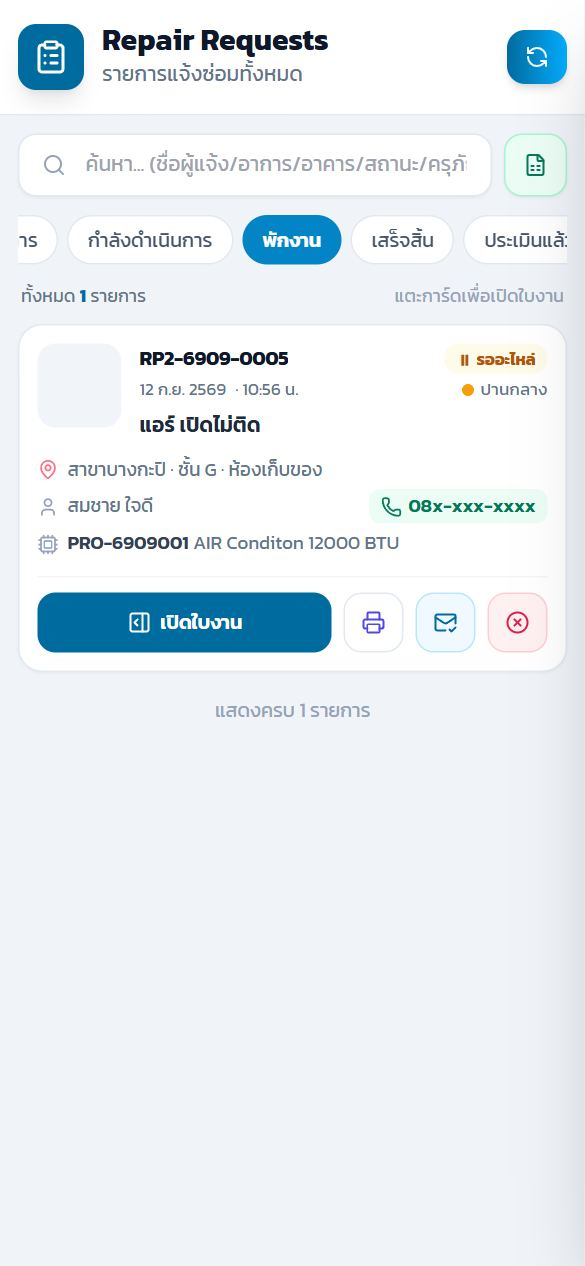
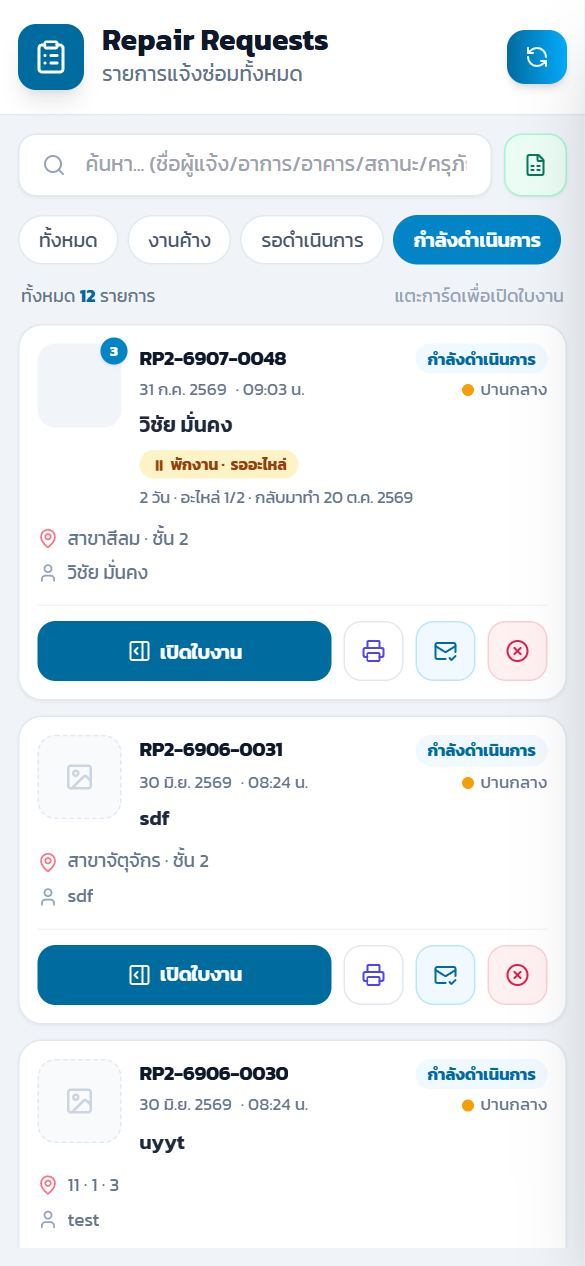
ปรับ excel ของพักงาน / ติดตามงาน

diff --git a/maintenance_info.php b/maintenance_info.php
@@ -486,9 +486,6 @@ $ag_id = (int)($sess_user_agency_es ?? 0); // ✅ กันว่างแล้
 				  return true;
 				})
 				.sort((a, b) => statusOrder.indexOf(a) - statusOrder.indexOf(b));
-			  // พักงาน = งานกำลังดำเนินการที่พักอยู่ (กรองฝั่ง server)
-			  const ip = normalized.indexOf('inprogress');
-			  normalized.splice(ip >= 0 ? ip + 1 : normalized.length, 0, 'onhold');
 
 			  params.success(normalized);
 			})
@@ -580,8 +577,6 @@ $ag_id = (int)($sess_user_agency_es ?? 0); // ✅ กันว่างแล้
     const STATUS_META = {
       pending:    { th:'รอดำเนินการ',   pct:10,  bg:'bg-amber-50',  text:'text-amber-700',  bar:'bg-amber-500' },
       inprogress: { th:'กำลังดำเนินการ', pct:50,  bg:'bg-sky-50',    text:'text-sky-700',    bar:'bg-sky-500' },
-      // พักงาน: ไม่ใช่ค่าในคอลัมน์ status จริง (ยังเป็น inprogress) — ใช้กับตัวกรอง และป้ายเมื่อแถวมี row.hold
-      onhold:     { th:'พักงาน',         pct:50,  bg:'bg-amber-50',  text:'text-amber-700',  bar:'bg-amber-500' },
       completed:  { th:'เสร็จสิ้น',      pct:100, bg:'bg-emerald-50', text:'text-emerald-700', bar:'bg-emerald-500' },
 	  feedback:   { th:'ประเมินแล้ว',   pct:100, bg:'bg-emerald-50', text:'text-emerald-700', bar:'bg-emerald-500'},
       cancel:     { th:'ยกเลิก',        pct:0,   bg:'bg-rose-50',    text:'text-rose-700',    bar:'bg-rose-500' },
@@ -608,13 +603,17 @@ $ag_id = (int)($sess_user_agency_es ?? 0); // ✅ กันว่างแล้
       return `<span class="${over ? 'text-rose-600 font-bold' : 'text-slate-500'}">${escapeHtml(bits.join(' · '))}</span>`;
     };
 
+    // แท็กพักงาน: สถานะยังเป็น "กำลังดำเนินการ" แล้วมีแท็กสีส้มต่อท้าย (ไม่ใช่สถานะใหม่)
+    const holdTag = (h) => `<span class="inline-flex items-center gap-1 max-w-full rounded-full bg-amber-100 text-amber-800 px-2 py-0.5 text-[10.5px] font-bold" title="${escapeHtml(h.label)}">
+        ⏸ พักงาน · <span class="truncate">${escapeHtml(h.label)}</span></span>`;
+
     const statusRenderer = (p) => {
       if (p.data?.hold && normalizeStatus(p.value) === 'inprogress') {
-        const h = p.data.hold;
+        const h = p.data.hold, meta = STATUS_META.inprogress;
         return `
-        <div class="flex flex-col w-full min-w-[140px] px-1 py-1.5 leading-tight">
-          <span class="text-[12px] font-bold tracking-tight text-amber-700">⏸ พักงาน</span>
-          <span class="text-[10.5px] font-semibold text-amber-700 truncate" title="${escapeHtml(h.label)}">${escapeHtml(h.label)}</span>
+        <div class="flex flex-col w-full min-w-[140px] px-1 py-1.5 leading-tight gap-1">
+          <span class="text-[12px] font-bold tracking-tight ${meta.text}">${escapeHtml(meta.th)}</span>
+          <span class="flex">${holdTag(h)}</span>
           <span class="text-[10.5px] truncate">${holdSubText(h)}</span>
         </div>`;
       }
@@ -802,6 +801,17 @@ const excelExportColumns = [
     field: 'ex_status',
     hide: true,
     valueGetter: p => statusText[p.data?.status] || p.data?.status || ''
+  },
+  // 2.1) พักงาน (แท็กของงานกำลังดำเนินการ) — เหตุผล + วันที่คาดว่ากลับมาทำ / ว่าง = ไม่ได้พัก
+  {
+    headerName: 'พักงาน',
+    field: 'ex_hold',
+    hide: true,
+    valueGetter: p => {
+      const h = p.data?.hold;
+      if (!h || String(p.data?.status || '').toLowerCase() !== 'inprogress') return '';
+      return h.label + (h.eta ? ` (กลับมาทำ ${formatThaiDate(h.eta)})` : '');
+    }
   },
 
   // 3) ความเร่งด่วน
@@ -1152,6 +1162,14 @@ async function exportToExcelFull() {
 
     sheet.columns = cols;
 
+    // รูปยึดกับช่องของแถว (twoCell) — กรองแถวใน Excel แล้วรูปของแถวที่ถูกซ่อนจะหายไปด้วย ไม่ลอยทับแถวอื่น
+    //  ช่องรูปกว้าง ~145px × สูง 160px => กรอบรูปประมาณ 100×100px
+    const imgAnchor = (colIndex, excelRowIndex) => ({
+      tl: { col: colIndex + 0.15, row: excelRowIndex - 1 + 0.15 },
+      br: { col: colIndex + 0.85, row: excelRowIndex - 1 + 0.75 },
+      editAs: 'twoCell'
+    });
+
     // ✅ จุดสำคัญ: ดึงข้อมูลทั้งหมดตาม filter/search/sort จาก API
     const rows = await fetchAllFilteredRowsForExport();
 
@@ -1201,10 +1219,7 @@ async function exportToExcelFull() {
           const colKey = `before_img_${i + 1}`;
           const colIndex = sheet.getColumn(colKey).number - 1;
 
-          sheet.addImage(imgId, {
-            tl: { col: colIndex + 0.15, row: excelRowIndex - 0.8 },
-            ext: { width: 90, height: 90 }
-          });
+          sheet.addImage(imgId, imgAnchor(colIndex, excelRowIndex));
         }
       }
 
@@ -1225,10 +1240,7 @@ async function exportToExcelFull() {
           const colKey = `after_img_${i + 1}`;
           const colIndex = sheet.getColumn(colKey).number - 1;
 
-          sheet.addImage(imgId, {
-            tl: { col: colIndex + 0.15, row: excelRowIndex - 0.8 },
-            ext: { width: 90, height: 90 }
-          });
+          sheet.addImage(imgId, imgAnchor(colIndex, excelRowIndex));
         }
       }
 
@@ -1244,6 +1256,10 @@ async function exportToExcelFull() {
     };
     header.alignment = { horizontal: "center", vertical: "middle" };
     header.height = 25;
+
+    // หัวคอลัมน์กรองได้ (ปุ่มลูกศรใน Excel) เฉพาะคอลัมน์ข้อมูล + ตรึงแถวหัวไว้ตอนเลื่อน
+    sheet.autoFilter = { from: { row: 1, column: 1 }, to: { row: 1, column: excelExportColumns.length } };
+    sheet.views = [{ state: 'frozen', ySplit: 1 }];
 
     const buffer = await workbook.xlsx.writeBuffer();
 
@@ -4212,7 +4228,6 @@ const MobileList = (() => {
     { key: 'pending,inprogress', label: 'งานค้าง' },
     { key: 'pending',    label: 'รอดำเนินการ' },
     { key: 'inprogress', label: 'กำลังดำเนินการ' },
-    { key: 'onhold',     label: 'พักงาน' },
     { key: 'completed',  label: 'เสร็จสิ้น' },
     { key: 'feedback',   label: 'ประเมินแล้ว' },
     { key: 'cancel',     label: 'ยกเลิก' }
@@ -4243,8 +4258,8 @@ const MobileList = (() => {
 
   function cardHtml(row, idx) {
     const st = normalizeStatus(row.status);
-    const onHold = !!(row.hold && st === 'inprogress');
-    const meta = onHold ? { ...STATUS_META.onhold, th: '⏸ ' + (row.hold.label || 'พักงาน') } : (STATUS_META[st] || { th: 'ไม่ทราบสถานะ', bg: 'bg-slate-50', text: 'text-slate-600' });
+    const onHold = !!(row.hold && st === 'inprogress');   // แท็กพักงานใต้หัวการ์ด (สถานะยังเป็นกำลังดำเนินการ)
+    const meta = STATUS_META[st] || { th: 'ไม่ทราบสถานะ', bg: 'bg-slate-50', text: 'text-slate-600' };
     const urg = urgencyMeta(row.urgency);
     const loc = [row.building_name, row.floor_name, row.room_name].filter(v => v && v !== '-' && v !== 'ไม่ระบุ').join(' · ') || 'ไม่ระบุสถานที่';
     const phone = String(row.phone || '').trim();
@@ -4267,6 +4282,7 @@ const MobileList = (() => {
               <span class="inline-flex items-center gap-1 ml-auto"><span class="w-2 h-2 rounded-full ${urg.dotClass}"></span>${escapeHtml(urg.label)}</span>
             </div>
             <div class="mt-1.5 text-[14px] font-semibold text-slate-800 leading-snug m-clamp2">${escapeHtml(row.problem_detail || '-')}</div>
+            ${onHold ? `<div class="mt-1.5 flex flex-wrap items-center gap-x-2 gap-y-1">${holdTag(row.hold)}<span class="text-[11px]">${holdSubText(row.hold)}</span></div>` : ''}
           </div>
         </div>
         <div class="mt-2.5 space-y-1 text-[12.5px] text-slate-500" data-act="open" data-i="${idx}">

diff --git a/tutorial.php b/tutorial.php
@@ -355,7 +355,7 @@ const MODULES = [
             ['<span class="inline-block w-2.5 h-2.5 rounded-full bg-emerald-500 mr-1.5"></span>ประเมินแล้ว', 'ผู้แจ้งประเมินความพึงพอใจแล้ว'],
             ['<span class="inline-block w-2.5 h-2.5 rounded-full bg-rose-500 mr-1.5"></span>ยกเลิก', 'ใบงานถูกยกเลิก']
         ] },
-        tips: ['กดปุ่มกรอง ▾ บนหัวคอลัมน์ เพื่อกรองเฉพาะอาคาร ชั้น หรือสถานะที่ต้องการ', 'บนมือถือ เลือกชิป <b>งานค้าง</b> ด้านบนรายการ เพื่อดูเฉพาะงานที่รอดำเนินการและกำลังดำเนินการ', '<b>ดูรูปแบบเต็มจอ</b> — เลื่อนรูป: ปัดซ้าย/ขวา ลากด้วยเมาส์ ปุ่ม ‹ › หรือปุ่มลูกศรบนคีย์บอร์ด | ซูม: ถ่างสองนิ้ว แตะสองครั้ง ดับเบิลคลิก หรือหมุนล้อเมาส์ | ปิด: ปุ่ม ✕ หรือ Esc', 'กดปุ่ม <span class="kbd">ส่งออก Excel</span> เหนือตาราง เพื่อดาวน์โหลดรายการเป็นไฟล์ Excel (บนมือถือเป็นไอคอนสีเขียว)']
+        tips: ['กดปุ่มกรอง ▾ บนหัวคอลัมน์ เพื่อกรองเฉพาะอาคาร ชั้น หรือสถานะที่ต้องการ', 'บนมือถือ เลือกชิป <b>งานค้าง</b> ด้านบนรายการ เพื่อดูเฉพาะงานที่รอดำเนินการและกำลังดำเนินการ', '<b>ดูรูปแบบเต็มจอ</b> — เลื่อนรูป: ปัดซ้าย/ขวา ลากด้วยเมาส์ ปุ่ม ‹ › หรือปุ่มลูกศรบนคีย์บอร์ด | ซูม: ถ่างสองนิ้ว แตะสองครั้ง ดับเบิลคลิก หรือหมุนล้อเมาส์ | ปิด: ปุ่ม ✕ หรือ Esc', 'กดปุ่ม <span class="kbd">ส่งออก Excel</span> เหนือตาราง เพื่อดาวน์โหลดรายการเป็นไฟล์ Excel (บนมือถือเป็นไอคอนสีเขียว) — ไฟล์ได้ตามตัวกรอง/การค้นหาที่ใช้อยู่ หัวคอลัมน์ในไฟล์มี<b>ปุ่มกรอง</b>ให้กรองต่อใน Excel และแถวหัวตารางตรึงไว้ตอนเลื่อน (รูปของแถวที่ถูกกรองออกจะซ่อนไปด้วย)']
     },
     {
         id: 'repair_job', title: 'รับงานและปิดงานซ่อม (สำหรับช่าง)', perm: 'repair_data', href: 'maintenance_info.php',
@@ -405,12 +405,13 @@ const MODULES = [
             { t: '<b>ประวัติการพักงาน</b> — ท้ายขั้นที่ 2 แสดงทุกครั้งที่เคยพัก (พักได้หลายรอบ) · ปิดงานจากสถานะพักงานได้เลย เช่น ผู้รับเหมาซ่อมเสร็จแล้ว' }
         ] },
         { title: '3. ดูงานที่พักอยู่ในรายการ', shot: 'repair_hold_list', steps: [
-            { m: 1, t: 'ตัวกรองคอลัมน์ <b>สถานะ</b> มีตัวเลือก <b>พักงาน</b> — ดูเฉพาะงานที่พักอยู่ (เลือกร่วมกับสถานะอื่นได้)' },
-            { m: 2, t: 'งานที่พักแสดง <b>⏸ พักงาน</b> + เหตุผล + พักมากี่วัน / อะไหล่เข้าแล้ว / วันที่กลับมาทำ (<span class="text-rose-600 font-semibold">แดง = เลยกำหนด</span>)' }
+            { m: 1, t: '<b>พักงานไม่ใช่สถานะใหม่</b> — งานที่พักยังมีสถานะ <b>กำลังดำเนินการ</b> (กรองคอลัมน์สถานะด้วย กำลังดำเนินการ ตามปกติ)' },
+            { m: 2, t: 'งานที่พักมีแท็กสีส้ม <b>⏸ พักงาน · เหตุผล</b> ใต้สถานะ พร้อมพักมากี่วัน / อะไหล่เข้าแล้ว / วันที่กลับมาทำ (<span class="text-rose-600 font-semibold">แดง = เลยกำหนด</span>)' },
+            { t: '<span class="kbd">ส่งออก Excel</span> มีคอลัมน์ <b>พักงาน</b> (เหตุผล และวันที่กลับมาทำ) — ใช้ตัวกรองที่หัวคอลัมน์ใน Excel เพื่อดูเฉพาะงานที่พักอยู่' }
         ] },
         { title: 'บนมือถือ', shot: 'repair_hold_m', steps: [
-            { m: 1, t: 'ชิป <b>พักงาน</b> — แสดงเฉพาะงานที่พักอยู่ (ปัดแถบชิปไปทางขวา)' },
-            { m: 2, t: 'การ์ดงานแสดงป้าย <b>⏸ เหตุผล</b> — แตะ <span class="kbd">เปิดใบงาน</span> แล้วไปที่ <b>รับงาน / ปิดงาน</b> เพื่อดูรายละเอียดหรือกลับมาดำเนินการ' }
+            { m: 1, t: 'ชิป <b>กำลังดำเนินการ</b> — งานที่พักอยู่รวมอยู่ในนี้' },
+            { m: 2, t: 'การ์ดงานที่พักมีแท็ก <b>⏸ พักงาน · เหตุผล</b> ใต้อาการเสีย — แตะ <span class="kbd">เปิดใบงาน</span> แล้วไปที่ <b>รับงาน / ปิดงาน</b> เพื่อดูรายละเอียดหรือกลับมาดำเนินการ' }
         ] }],
         tips: ['งานที่พักยังนับเป็น <b>กำลังดำเนินการ</b> ในรายงานและหน้าหลัก — พักงานคือป้ายบอกว่างานรออะไรอยู่', 'ยกเลิกใบงาน ปิดงาน หรือล้างข้อมูลรับงาน รอบพักงานที่ค้างอยู่จะจบให้อัตโนมัติ และปล่อยอะไหล่ที่จองไว้', 'อะไหล่ที่จองให้งานที่พักอยู่ จะแสดงเป็น <b>จองแล้ว</b> ตอนค้นหา และไม่นับเป็นจำนวนที่ใช้ได้ของงานอื่น']
     },
